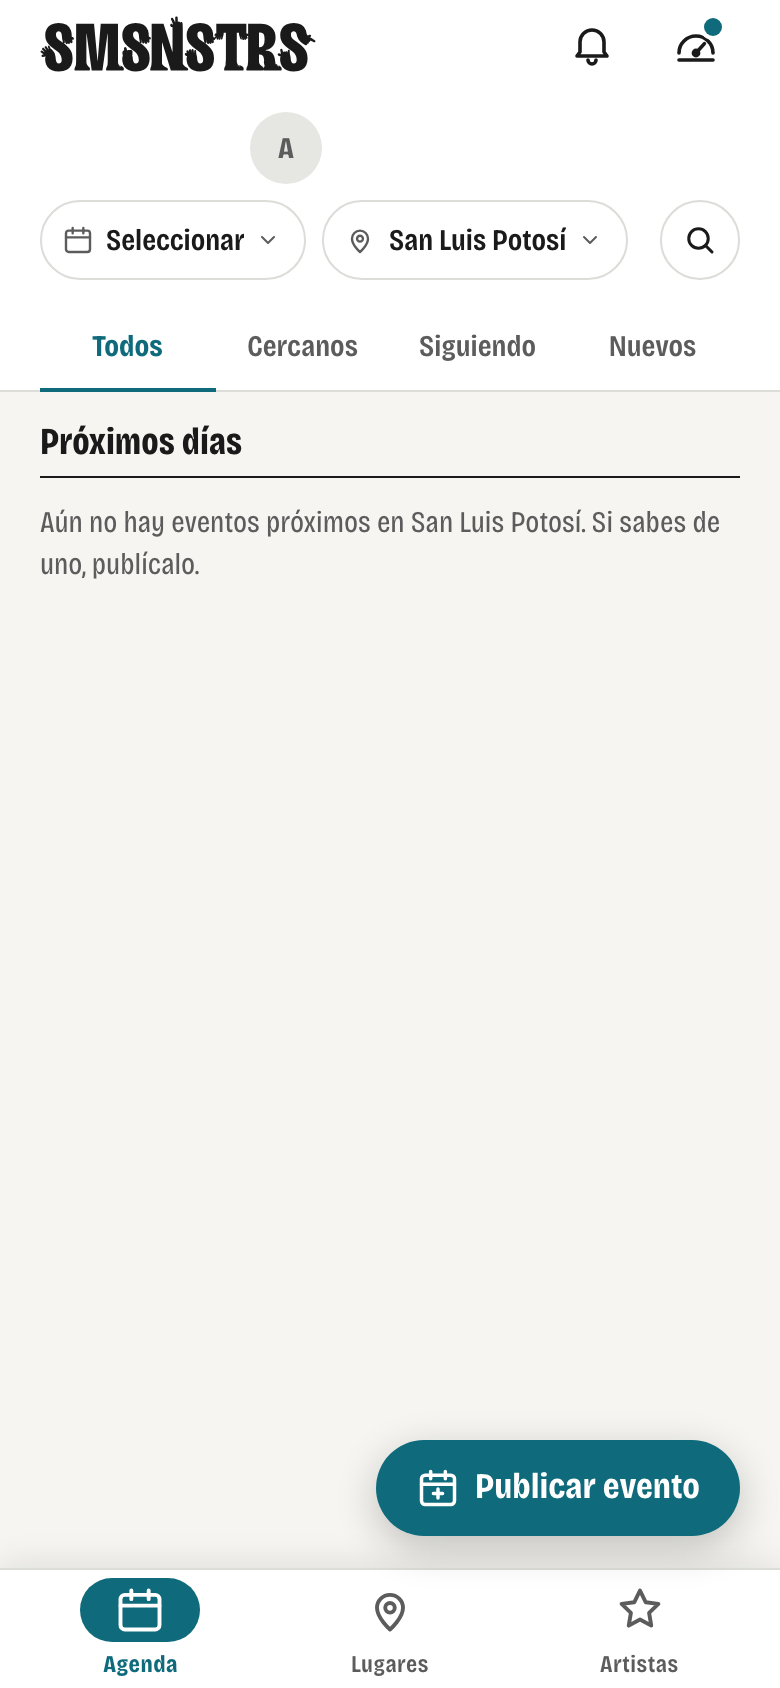
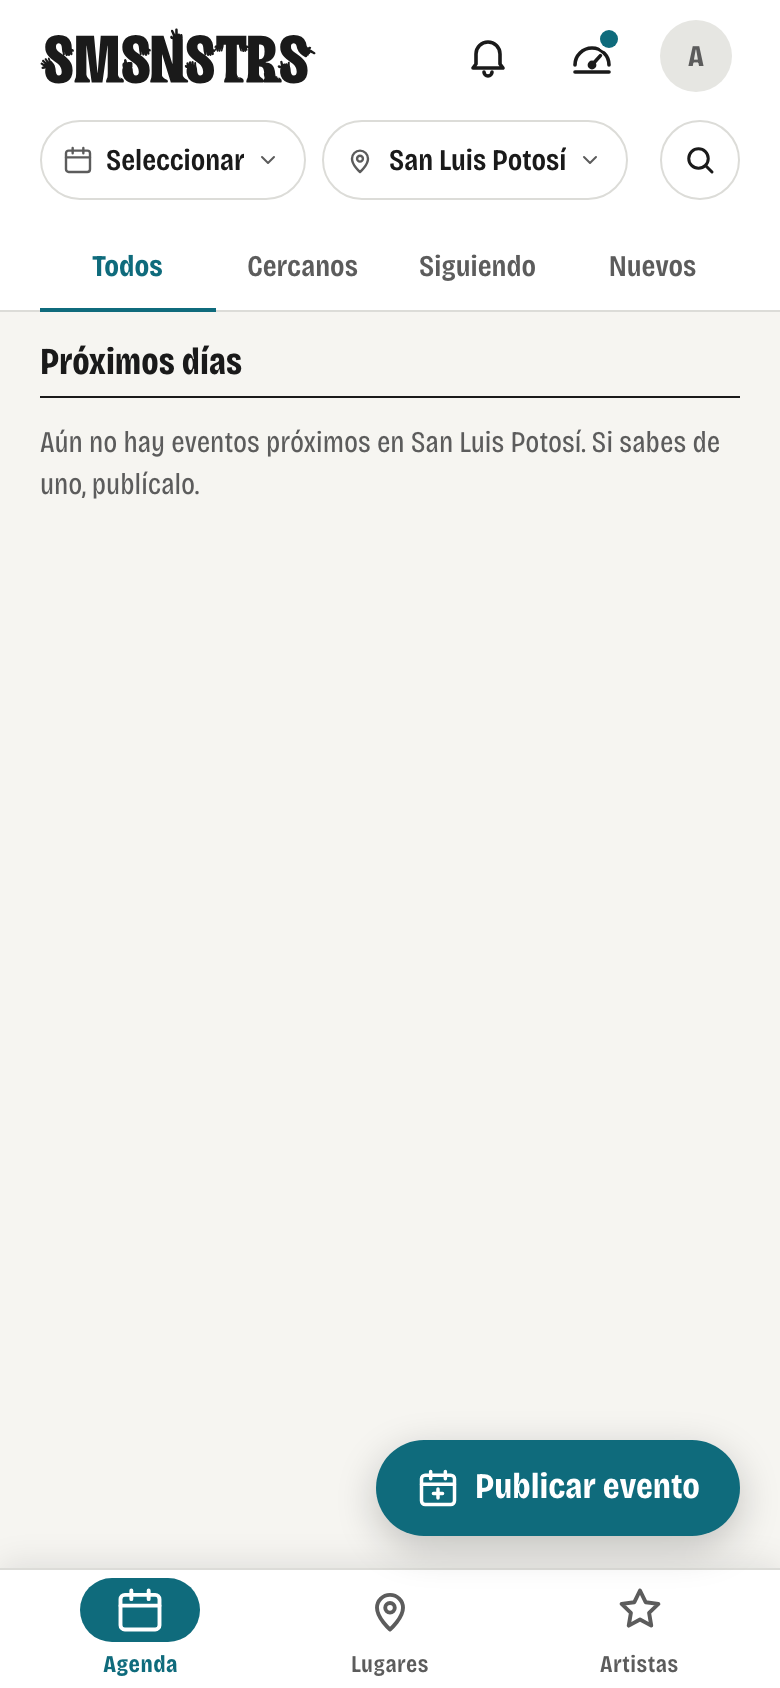
OL-115: corrige que el icono de Administración partía la cabecera en dos filas
ui/Barra.module.css (.raiz): con 4 hijos directos (Sesion sin envoltorio:
logotipo + campana + Administración + foto) y solo 3 columnas explícitas
(grid-template-columns: 1fr auto auto), CSS Grid mandaba el sobrante (la
foto) a un renglón implícito nuevo. Corregido con una columna explícita
(el logotipo) más grid-auto-flow: column / grid-auto-columns: auto, para
que cualquier número de controles a la derecha quede en la misma fila sin
depender de contar hijos a mano. Sin position: absolute.

Medido con getBoundingClientRect() en el navegador real (respaldo local +
Chrome headless por CDP), reproduciendo la regla vieja con estilo en línea
sobre el mismo DOM: antes 96px/dos renglones, después 56px/un renglón, a
390 y 320 px, sin desbordar. Capturas repetidas + una nueva a 320×568.

Verde: lint, typecheck, 803 unitarias, build.

diff --git a/src/components/ui/Barra.module.css b/src/components/ui/Barra.module.css
@@ -6,10 +6,16 @@
   background: var(--fondo);
 }
 
-/* Raíz: logotipo a la izquierda y sesión a la derecha, con su gutter; la cabecera pegajosa (chips, filtros) va debajo. */
+/* Raíz: logotipo a la izquierda y sesión a la derecha, con su gutter; la cabecera pegajosa (chips, filtros) va debajo.
+   Hijos directos sin envoltorio (Sesion es un fragmento: campana, Administración solo si aplica, foto). Una sola
+   columna explícita (el logotipo, que crece y empuja al resto) y el resto fluye en columnas implícitas del mismo
+   ancho automático, en la misma fila: no depende de contar cuántos hijos trae Sesion (OL-115, corrección del
+   gestor: con tres o más controles a la derecha, "1fr auto auto" mandaba el sobrante a un renglón nuevo). */
 .raiz {
   display: grid;
-  grid-template-columns: 1fr auto auto;
+  grid-template-columns: 1fr;
+  grid-auto-flow: column;
+  grid-auto-columns: auto;
   gap: var(--espacio-2);
   padding: 0 var(--gutter);
 }

diff --git a/docs/bitacora/2026/09/150-avisos-al-admin.md b/docs/bitacora/2026/09/150-avisos-al-admin.md
@@ -155,3 +155,39 @@ Lo que pide L39 entre paréntesis. Si se hiciera, lo mínimo útil sería:
   `20260922130000` (Pincel) y `20260922140000` (OL-114, identidad del artista), que van antes en el orden.
 - Commit local en `avisos-al-admin`: `451258c` (migración + prueba SQL) y el commit de este cierre (código
   TypeScript + bitácora + capturas). Sin push; el gestor sube cuando corresponda.
+
+## Corrección tras la revisión del gestor (2026-09-22): el icono nuevo rompía la fila
+
+El gestor devolvió la pieza por una cosa: al agregar el icono de Administración, la foto de perfil saltaba a un
+segundo renglón, debajo del logotipo (visible en `cabecera-admin-con-punto--390x844.png` de la entrega anterior).
+
+**Causa medida.** `ui/Barra.module.css`, clase `.raiz`: `grid-template-columns: 1fr auto auto` (3 columnas
+explícitas) para una fila que ahora recibe **4** hijos directos sin envoltorio (`Sesion.tsx` es un fragmento:
+logotipo + campana + Administración + foto; `VistoHoy` no cuenta, devuelve `null`). Con más hijos que columnas
+explícitas y sin `grid-auto-flow` propio, CSS Grid manda el sobrante (la foto) a un renglón implícito nuevo. Antes
+de esta pieza siempre habían sido 3 hijos (logotipo + campana + foto), que sí cabían justo en las 3 columnas.
+
+**Arreglo.** Una sola columna explícita (`1fr`, el logotipo, que crece y empuja el resto) más
+`grid-auto-flow: column; grid-auto-columns: auto;`, para que cualquier número de controles a la derecha fluya en
+columnas implícitas dentro de la MISMA fila, sin depender de contar hijos a mano y sin envoltorio nuevo (regla de
+maquetación plana). Sin `position: absolute`.
+
+**Medido con `getBoundingClientRect()` en el navegador real** (mismo respaldo local, Chrome headless por CDP),
+reproduciendo la regla vieja con estilo en línea sobre el mismo DOM/contenido para tener un "antes" exacto, a
+390×844 y 320×568:
+
+| | Antes (regla vieja) | Después (corregido) |
+| --- | --- | --- |
+| Alto de la cabecera | **96px**, dos renglones (`dosRenglones: true`, el 4º hijo con `top` distinto a los otros tres) | **56px**, un renglón (`dosRenglones: false`, los 4 hijos con el mismo `top`) |
+| A 390px | Igual que arriba | Igual que arriba |
+| A 320px | Igual que arriba (el bug no depende del ancho) | Igual que arriba; sin desbordar el viewport |
+
+El alto de después (56px) es el mismo que ya tenía la cabecera en producción sin el icono nuevo (una fila,
+`min-height: var(--alto-barra)`): la corrección no cambia el alto habitual, solo evita que un caso con más
+controles caiga en un renglón extra.
+
+**Capturas repetidas** (`docs/rediseno/capturas-150/`): `cabecera-admin-sin-punto--390x844.png` y
+`cabecera-admin-con-punto--390x844.png` (reemplazadas) más `cabecera-admin-con-punto--320x568.png` (nueva),
+las tres con logotipo · campana · Administración · foto en una sola fila.
+
+Verde otra vez: lint, typecheck, 803 unitarias, build.
